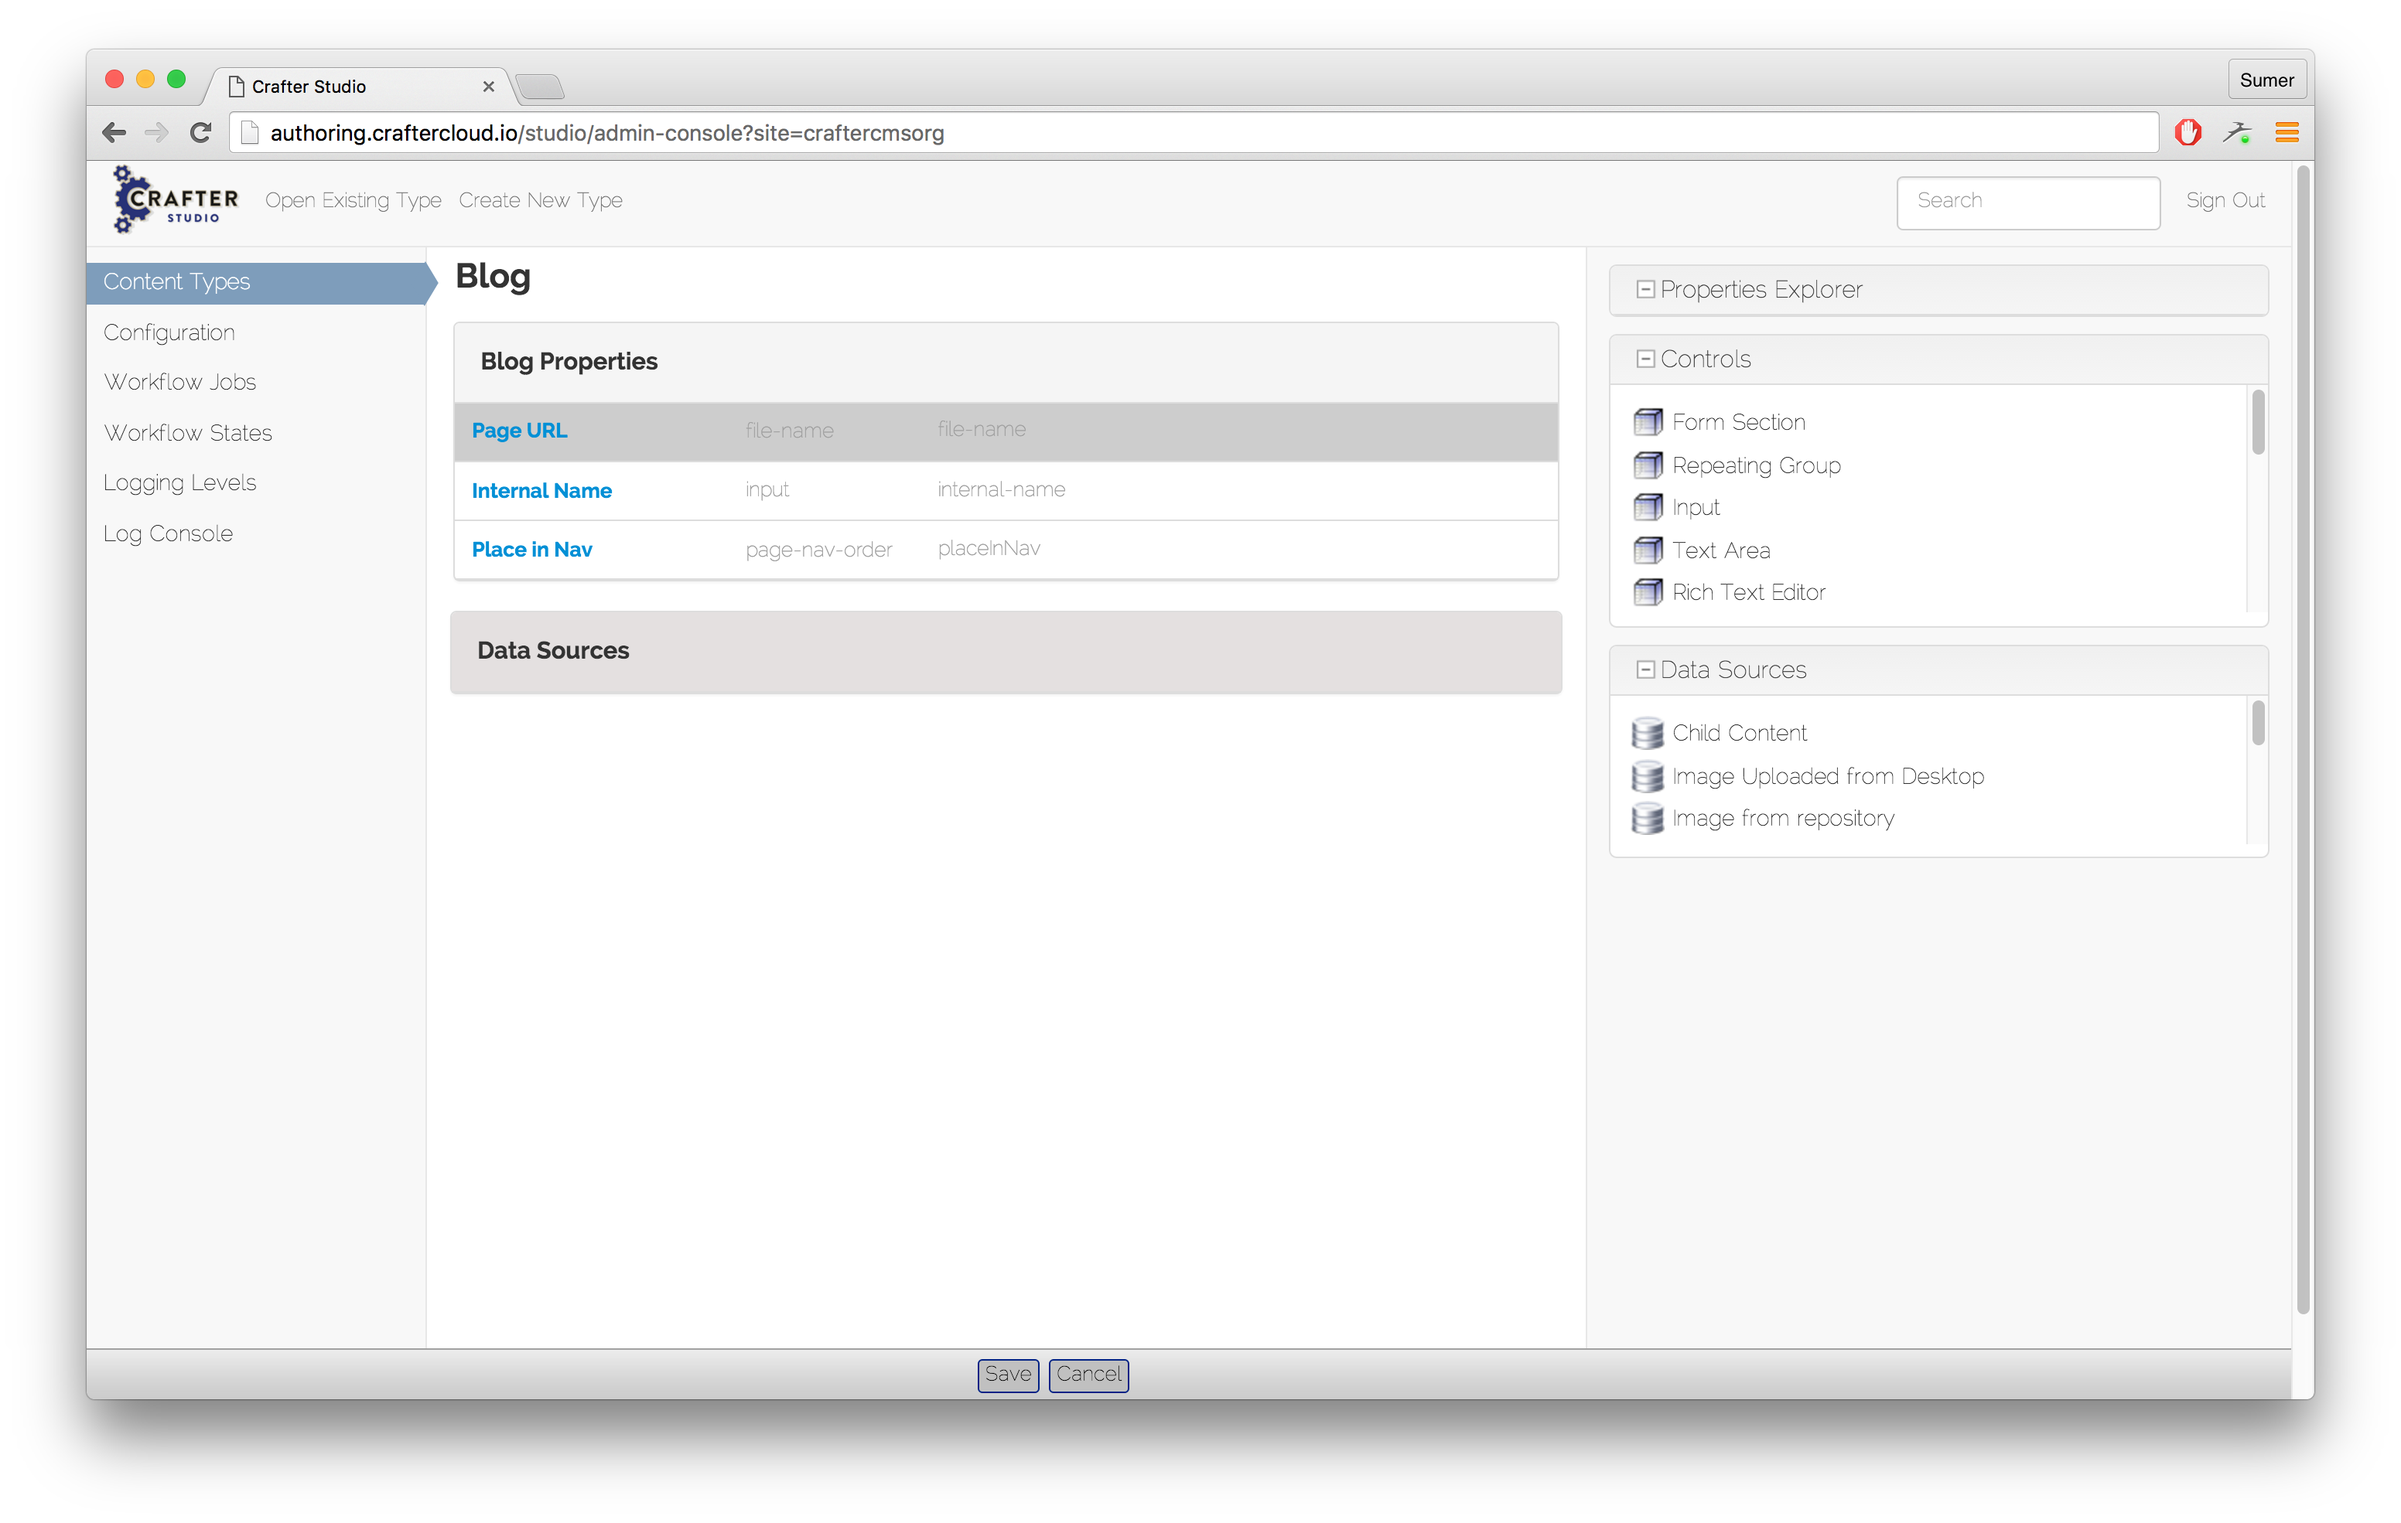
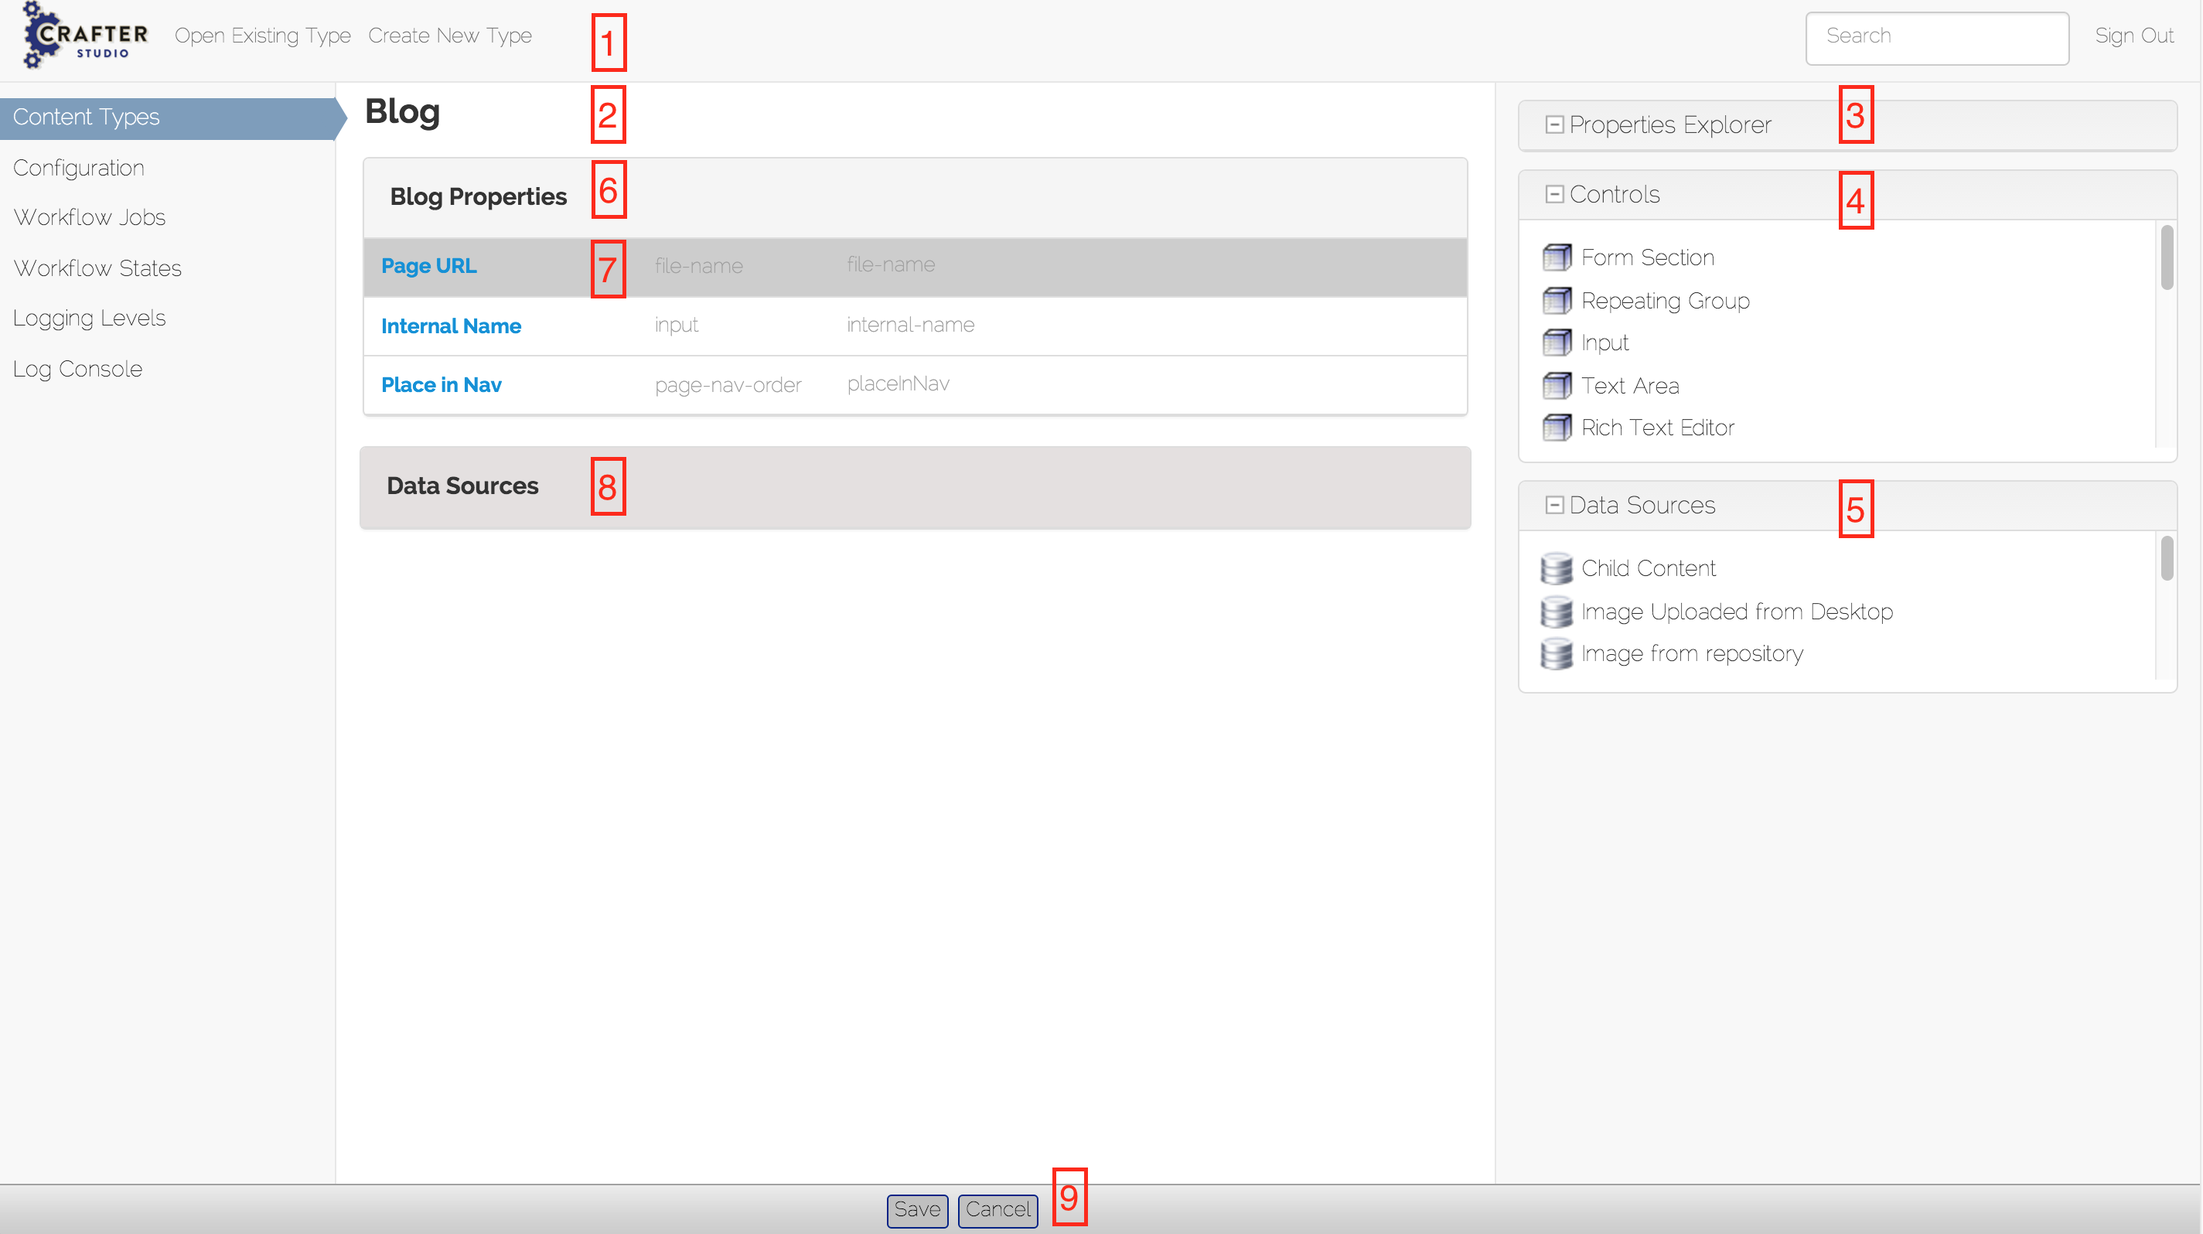
Updated the content modeling article.

Changed region(s): [[0.0, 0.0, 0.9996, 1.0], [0.8122, 0.3684, 0.8747, 0.4298]]

diff --git a/source/projects/studio/content-modeling.rst b/source/projects/studio/content-modeling.rst
@@ -64,11 +64,20 @@ You now specify:
 The next screen shows the form builder:
 
 .. image:: /_static/images/create-content-type-2.png
-	:height: 200px
-	:width: 400 px
-	:scale: 50 %
-	:alt: Admin Console Link
-	:align: right
+	:height: 800px
+	:width: 800 px
+	:scale: 75 %
+	:alt: Content Type Editor
+	:align: center
+
+Let's start by exploring the various controls on this screen:
+
+1. Open Existing Content Type or Create a New Type
+
+2. The begging of the formm builder and it's headed by the name of currently open Content Type. Click here to explore the global properties of the type in the Properties Explorer, #3.
+3. Properties Explorere helps configure the properties of the currently selected item. Clicking on an item on the left side of the screen, like #2 or #7 will populate this control and allow you to modify the selected item.
+
+4. This is a list of available form controls for you to build your form with. Note that the list has a scrollbar for many types of useful controls. Controls can be dragged from the controls list onto the form builder 
 
 
 
